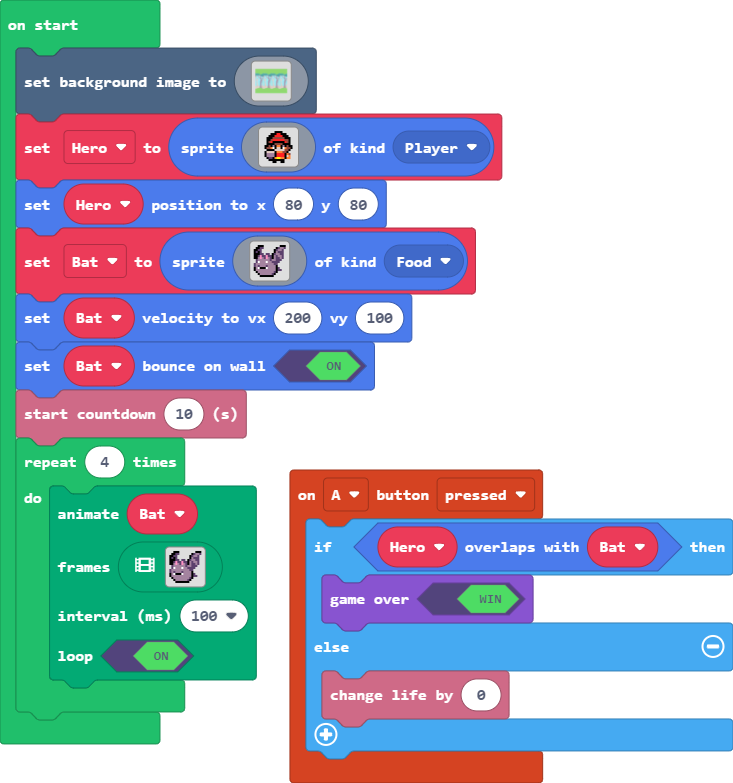
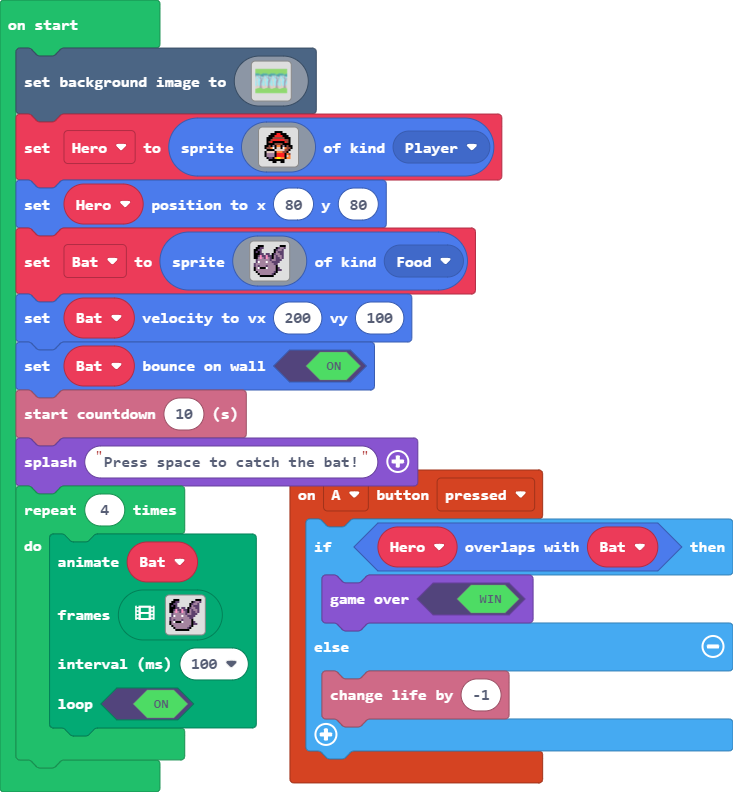
Update main.blocks, main.ts

Changed region(s): [[0.0, 0.0613, 1.0, 1.0], [0.03, 0.092, 0.06, 0.1226]]

diff --git a/main.ts b/main.ts
@@ -2,7 +2,7 @@ controller.A.onEvent(ControllerButtonEvent.Pressed, function () {
     if (Hero.overlapsWith(Bat)) {
         game.gameOver(true)
     } else {
-        info.changeLifeBy(0)
+        info.changeLifeBy(-1)
     }
 })
 let Bat: Sprite = null
@@ -169,6 +169,7 @@ Bat = sprites.create(img`
 Bat.setVelocity(200, 100)
 Bat.setBounceOnWall(true)
 info.startCountdown(10)
+game.splash("Press space to catch the bat!")
 for (let index = 0; index < 4; index++) {
     animation.runImageAnimation(
     Bat,
